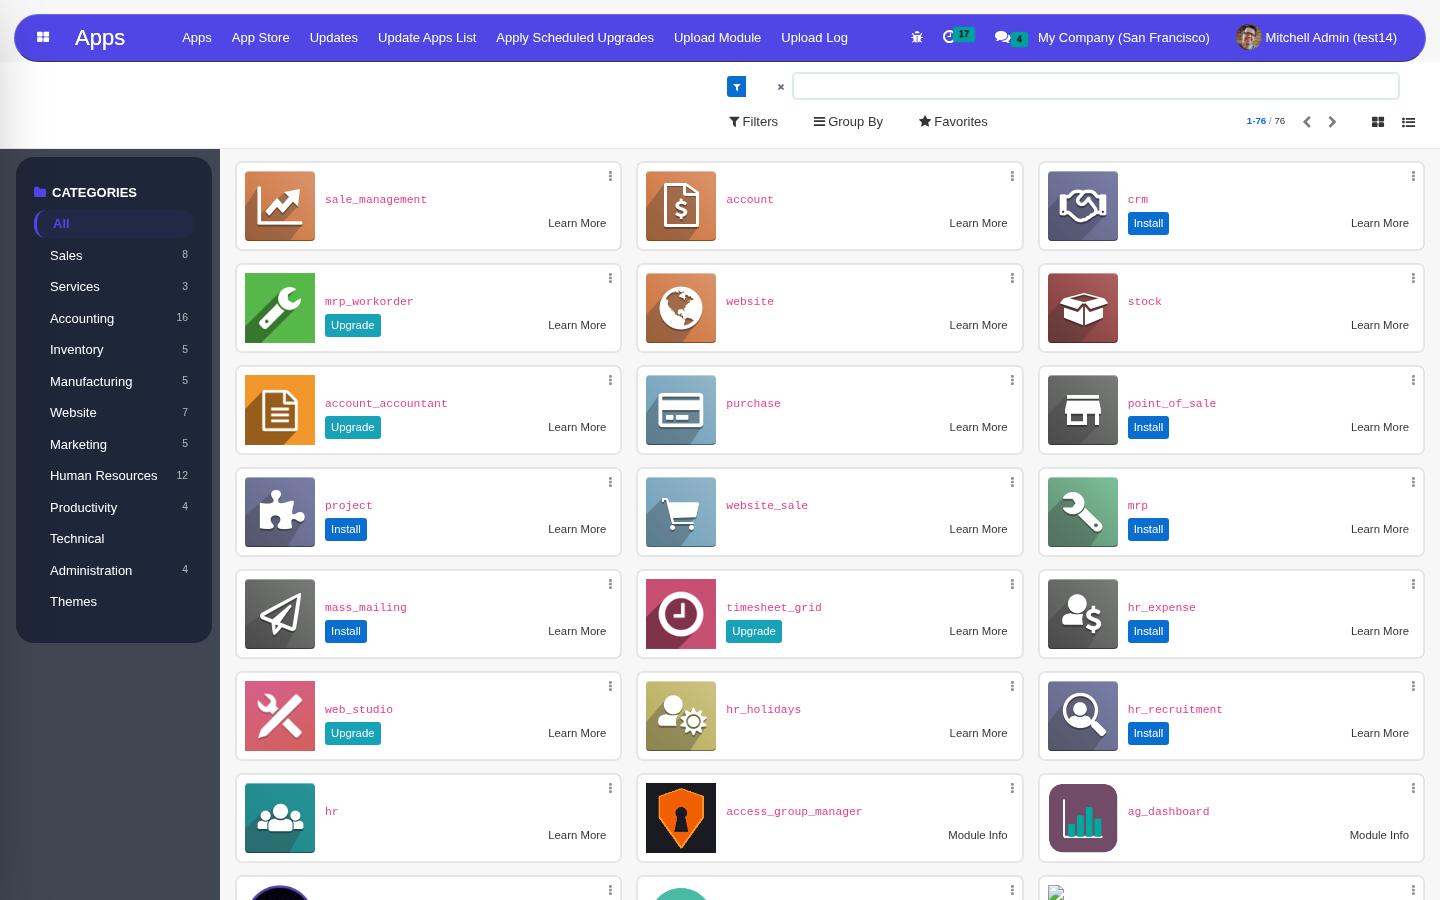
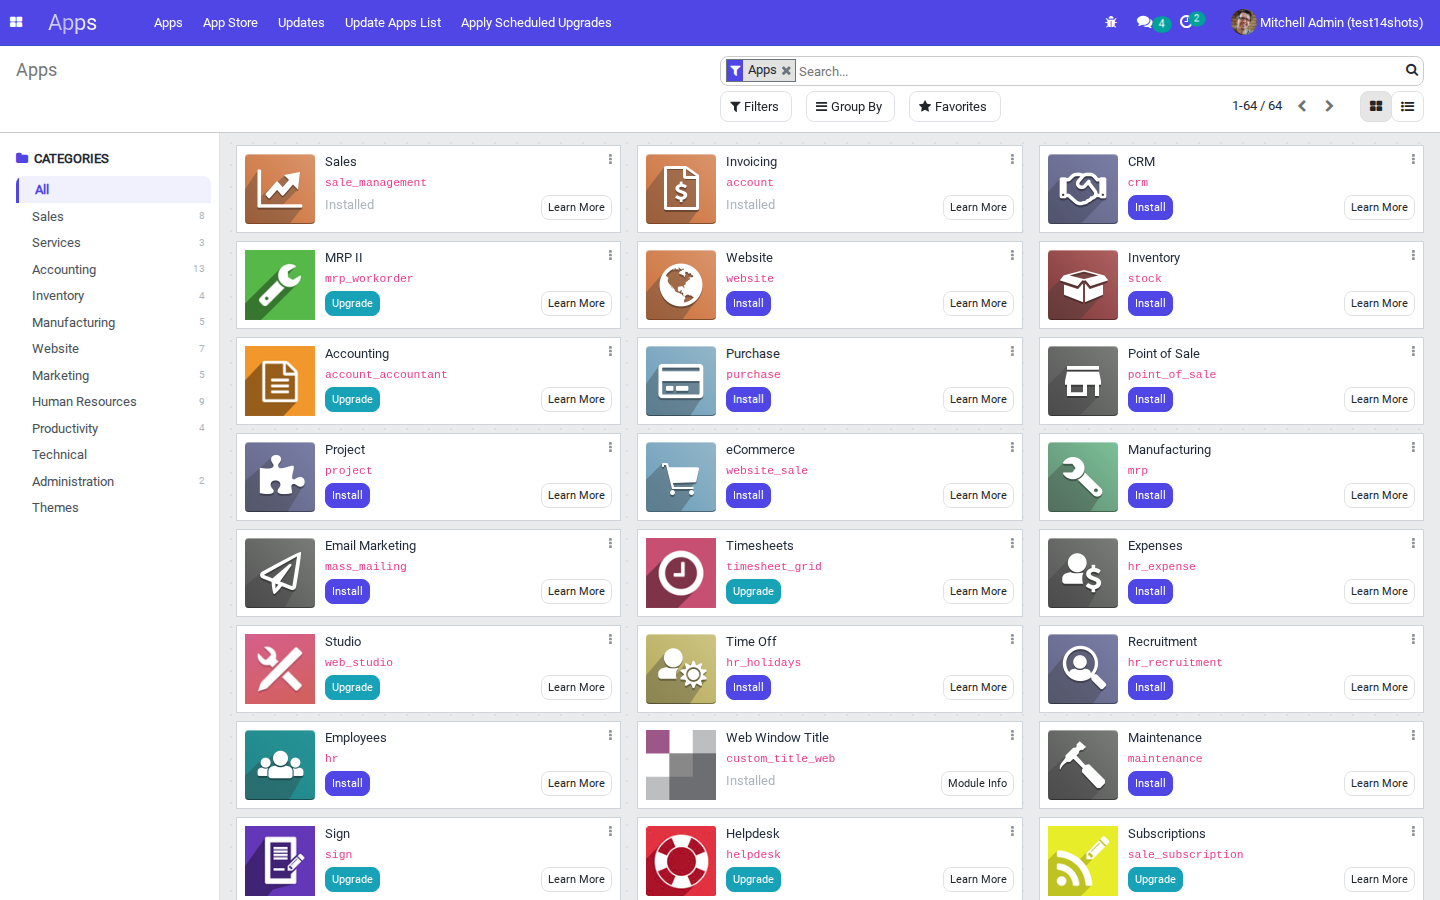
14.0.2.0.9: replace dark (liquid glass) description screenshots with default light theme shots

diff --git a/fix_module_icons/__manifest__.py b/fix_module_icons/__manifest__.py
@@ -1,7 +1,7 @@
 # -*- coding: utf-8 -*-
 {
     'name': 'Fix Module Icons',
-    'version': '14.0.2.0.8',
+    'version': '14.0.2.0.9',
     'summary': 'Prevent app icons from disappearing after module install/upgrade',
     'description': """
 Fix Module Icons
